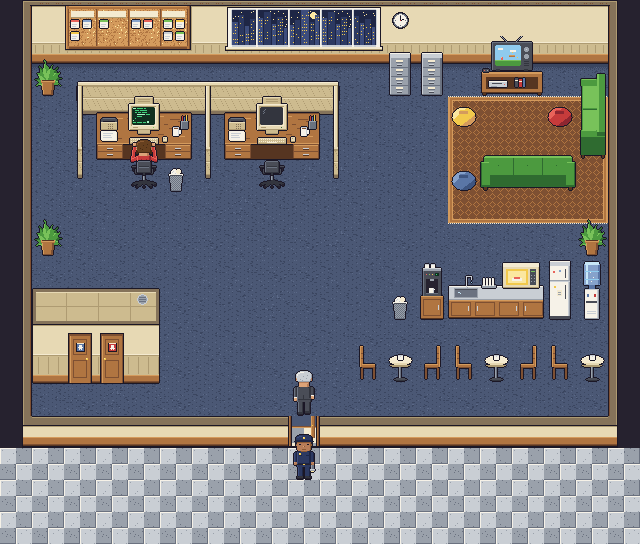
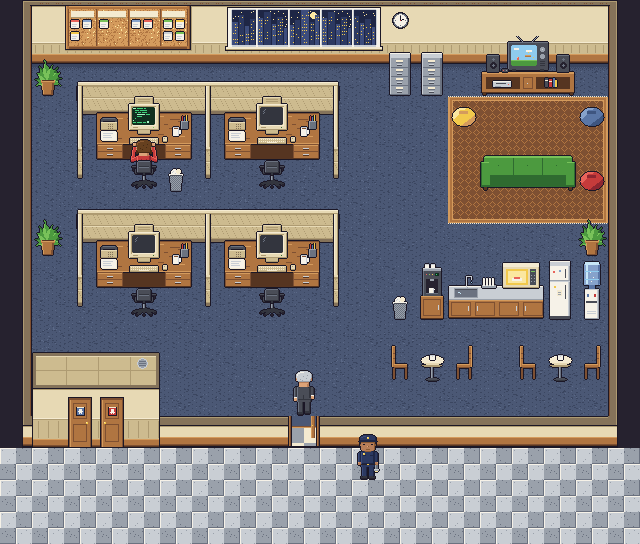
docs: quatro cubículos e o banheiro com as portas no corredor, na planta da arte do escritório
A copa fica com duas mesinhas e quatro cadeiras, alinhadas com a linha da cozinha. A sala de
descompressão perde o sofá de lado e ganha um móvel de três tiles, com a TV centrada no sofá e as
caixas de som. O banheiro cola na parede de baixo, com as portas no corredor: para ir a ele, sai-se
do escritório. O vigia sai da frente da porta. Com o espaço do banheiro, entra a segunda fileira de
cubículos. A planta proposta no pedido segue o ajuste; a bíblia §3 fica com a outra sessão.

Claude-Session: https://claude.ai/code/session_01BURa66aaHAm5tC4w4uDtJx

diff --git a/docs/design/escritorio-arte/escritorio-arte.html b/docs/design/escritorio-arte/escritorio-arte.html
@@ -759,14 +759,20 @@ function sofaLado() {
   return s.contorno();
 }
 
-// ---- o móvel com a TV de tubo e o videogame (64 × 64, pegada 2 × 1): f 0 desligada, 1–2 jogo
+// ---- o móvel com a TV de tubo, o videogame e as caixas de som (96 × 64, pegada 3 × 1)
+// f 0 desligada, 1–2 jogo. A TV fica no meio, centrada no sofá.
 function movelTv(f) {
-  const s = new Spr(64, 64);
-  s.r(2, 40, 60, 21, 'mad').hl(2, 61, 40, 'madCl').hl(2, 61, 41, 'madCl').r(6, 45, 52, 12, 'madMEsc').hl(2, 61, 60, 'madMEsc');
-  s.r(3, 61, 3, 2, 'madMEsc').r(58, 61, 3, 2, 'madMEsc');
+  const s = new Spr(96, 64);
+  s.r(2, 40, 92, 21, 'mad').hl(2, 93, 40, 'madCl').hl(2, 93, 41, 'madCl').hl(2, 93, 60, 'madMEsc');
+  s.r(6, 45, 34, 12, 'madMEsc').r(56, 45, 34, 12, 'madMEsc');                                   // as duas prateleiras
+  s.r(43, 45, 10, 12, 'madEsc').r(44, 46, 8, 10, 'mad').p(47, 51, 'cinzaCl');                    // a portinha do meio
+  s.r(3, 61, 3, 2, 'madMEsc').r(90, 61, 3, 2, 'madMEsc');
   s.contorno();
-  s.cola(item(20, 9, o => { o.r(1, 2, 18, 6, 'cinzaCl').hl(1, 18, 2, 'branco').hl(4, 13, 4, 'grafite').p(16, 5, 'vermCl').hl(3, 8, 7, 'cinza'); }), 8, 47);   // o console
-  s.cola(item(12, 11, o => { o.r(1, 1, 3, 9, 'grafite').r(5, 2, 3, 8, 'verm').r(9, 1, 2, 9, 'azul').hl(1, 3, 3, 'cremeCl').hl(5, 7, 4, 'cremeCl'); }), 34, 45);   // os cartuchos
+  s.cola(item(20, 9, o => { o.r(1, 2, 18, 6, 'cinzaCl').hl(1, 18, 2, 'branco').hl(4, 13, 4, 'grafite').p(16, 5, 'vermCl').hl(3, 8, 7, 'cinza'); }), 12, 47);   // o console
+  s.cola(item(14, 11, o => { o.r(1, 1, 3, 9, 'grafite').r(5, 2, 3, 8, 'verm').r(9, 1, 2, 9, 'azul').r(11, 3, 2, 7, 'amarelo').hl(1, 3, 3, 'cremeCl').hl(5, 7, 4, 'cremeCl'); }), 64, 45);   // os cartuchos
+  for (const x0 of [6, 76]) s.cola(item(14, 19, o => {                                          // as caixas de som
+    o.r(1, 1, 12, 17, 'grafite').hl(1, 12, 1, 'cinzaEsc').disco(7, 11, 3, 'escuro').disco(7, 11, 1, 'cinzaEsc').disco(7, 5, 1, 'cinzaEsc');
+  }), x0, 22);
   s.cola(item(42, 36, o => {
     o.linha(16, 6, 10, 0, 'cinza').linha(24, 6, 30, 0, 'cinza').p(10, 0, 'cinzaCl').p(30, 0, 'cinzaCl');
     o.r(1, 6, 40, 28, 'grafite').hl(1, 40, 6, 'cinzaEsc').vl(1, 6, 33, 'cinzaEsc').r(5, 33, 4, 2, 'grafiteEsc').r(33, 33, 4, 2, 'grafiteEsc');
@@ -783,8 +789,8 @@ function movelTv(f) {
     for (const [x, y] of [[x0, y0], [x0 + w - 1, y0], [x0, y0 + h - 1], [x0 + w - 1, y0 + h - 1]]) o.p(x, y, 'grafite');
     o.disco(35, 13, 2, 'cinza').disco(35, 20, 2, 'cinza').p(35, 13, 'cinzaCl');
     for (const y of [25, 27, 29]) o.hl(33, 37, y, 'grafiteEsc');
-  }), 11, 4);
-  s.cola(item(8, 5, o => o.r(1, 1, 6, 3, 'grafite').p(2, 2, 'vermCl').p(5, 2, 'cinza')), 2, 36);   // o controle
+  }), 27, 4);
+  s.cola(item(8, 5, o => o.r(1, 1, 6, 3, 'grafite').p(2, 2, 'vermCl').p(5, 2, 'cinza')), 21, 36);   // o controle
   return s;
 }
 
@@ -1217,7 +1223,7 @@ const FOLHAS = [
   { nome: 'lixeira', grupo: 'móveis', q: [32, 32], col: 1, lin: 1, pegada: [1, 1], ancora: [16, 32], camada: 'normal', quadros: ['lixeira'], desenha: () => lixeira() },
   { nome: 'banheiro', grupo: 'banheiro e copa', q: [128, 96], col: 3, lin: 1, pegada: [4, 3], ancora: [64, 96], camada: 'normal',
     quadros: ['fechado', 'masculino aberta', 'feminino aberta'], portas: { masculino: [1, 2], feminino: [2, 2] },
-    nota: 'bloco com teto; as portas ficam na face sul, nos tiles 2 e 3 da pegada; quem entra some', desenha: c => banheiro(c) },
+    nota: 'bloco com teto, colado à parede de baixo; as portas dão para o corredor, nos tiles 2 e 3 da pegada; quem entra some', desenha: c => banheiro(c) },
   { nome: 'geladeira', grupo: 'banheiro e copa', q: [32, 64], col: 2, lin: 1, pegada: [1, 1], ancora: [16, 64], camada: 'normal',
     quadros: ['fechada', 'aberta'], desenha: c => geladeira(c) },
   { nome: 'balcao_copa', grupo: 'banheiro e copa', q: [96, 64], col: 2, lin: 1, pegada: [3, 1], ancora: [48, 64], camada: 'normal',
@@ -1233,9 +1239,9 @@ const FOLHAS = [
   { nome: 'sofa_costas', grupo: 'descompressão', q: [96, 64], col: 1, lin: 1, pegada: [3, 1], ancora: [48, 64], camada: 'normal',
     quadros: ['de costas, para a TV'], desenha: () => sofaCostas() },
   { nome: 'sofa_lado', grupo: 'descompressão', q: [32, 96], col: 1, lin: 1, pegada: [1, 2], ancora: [16, 96], camada: 'normal',
-    quadros: ['virado para a esquerda'], desenha: () => sofaLado() },
-  { nome: 'movel_tv', grupo: 'descompressão', q: [64, 64], col: 3, lin: 1, pegada: [2, 1], ancora: [32, 64], camada: 'normal',
-    quadros: ['desligada', 'jogo 1', 'jogo 2'], nota: 'a TV de tubo, o videogame e os cartuchos', desenha: c => movelTv(c) },
+    quadros: ['virado para a esquerda'], nota: 'fora da sala por enquanto', desenha: () => sofaLado() },
+  { nome: 'movel_tv', grupo: 'descompressão', q: [96, 64], col: 3, lin: 1, pegada: [3, 1], ancora: [48, 64], camada: 'normal',
+    quadros: ['desligada', 'jogo 1', 'jogo 2'], nota: 'a TV de tubo no meio, o videogame, os cartuchos e as caixas de som', desenha: c => movelTv(c) },
   { nome: 'puff', grupo: 'descompressão', q: [32, 32], col: 3, lin: 1, pegada: [1, 1], ancora: [16, 32], camada: 'normal',
     quadros: ['amarelo', 'vermelho', 'azul'], desenha: c => puff(c) },
   { nome: 'tapete', grupo: 'descompressão', q: [32, 32], col: 3, lin: 3, pegada: [1, 1], ancora: [16, 32], camada: 'chao',
@@ -1280,15 +1286,20 @@ window.metadados = () => {
 
 // =====================================================================
 // PRÉVIA: a sala montada (20 × 17) com as peças, em passos de 100 ms
-// A planta (15/11, à noite): os cubículos em cima à esquerda, a sala de
-// descompressão em cima à direita, o banheiro embaixo à esquerda e a copa
-// embaixo à direita. Coordenadas em tiles: (coluna, linha).
+// A planta (15/11, à noite, segundo ajuste): quatro cubículos à esquerda, em
+// duas fileiras; a sala de descompressão em cima à direita; a copa embaixo à
+// direita; o banheiro colado à parede de baixo, com as portas no corredor.
+// Coordenadas em tiles: (coluna, linha).
 // =====================================================================
 const SALA = { L: 20, A: 17 };
 const PORTA = [9, 13];
 
-// ---- os dois cubículos: as células de divisória e a máscara de cada uma
-const DIV = new Set(['2,3', '3,3', '4,3', '5,3', '6,3', '7,3', '8,3', '9,3', '10,3', '2,4', '2,5', '6,4', '6,5', '10,4', '10,5']);
+// ---- os quatro cubículos, em duas fileiras: as células de divisória e a máscara de cada uma
+const DIV = new Set();
+for (const l0 of [3, 7]) {
+  for (let c = 2; c <= 10; c++) DIV.add(c + ',' + l0);
+  for (const c of [2, 6, 10]) { DIV.add(c + ',' + (l0 + 1)); DIV.add(c + ',' + (l0 + 2)); }
+}
 const temDiv = (c, l) => DIV.has(c + ',' + l);
 function mascara(c, l) { return (temDiv(c, l - 1) ? 1 : 0) | (temDiv(c + 1, l) ? 2 : 0) | (temDiv(c, l + 1) ? 4 : 0) | (temDiv(c - 1, l) ? 8 : 0); }
 
@@ -1331,7 +1342,7 @@ function fundo(noite) {
 
 // ---- o caminho do gerente: [coluna, linha] ou ['pausa', ticks, direção, onde]
 // entra pela porta, vai ao quadro, passa na máquina de café e volta
-const CAMINHO = [[9, 12], [9, 7], [11, 7], [11, 2], [4, 2], ['pausa', 14, 0, 'quadro'], [11, 2], [11, 7], [11, 10], [13, 10],
+const CAMINHO = [[9, 12], [9, 10], [11, 10], [11, 2], [4, 2], ['pausa', 14, 0, 'quadro'], [11, 2], [11, 10], [13, 10],
   ['pausa', 16, 0, 'cafe'], [9, 10], [9, 12], ['pausa', 14, 2, 'porta']];
 const PASSO = 4;    // px por tick: 8 ticks por tile (andar per_tile)
 function etapasGerente() {
@@ -1373,26 +1384,27 @@ function objetos(t) {
   poe(quadro('lixeira'), 5, 5);
   poe(quadro('mesa_dev', 0), 7, 4, 3);
   poe(quadro('cadeira', 2), 8, 5);
+  poe(quadro('mesa_dev', 0), 3, 8, 3); poe(quadro('cadeira', 2), 4, 9);
+  poe(quadro('mesa_dev', 0), 7, 8, 3); poe(quadro('cadeira', 2), 8, 9);
   poe(quadro('arquivo'), 12, 2); poe(quadro('arquivo'), 13, 2);
   // a sala de descompressão
-  poe(quadro('movel_tv', 1 + Math.floor(t / 4) % 2), 15, 2, 2);
+  poe(quadro('movel_tv', 1 + Math.floor(t / 4) % 2), 15, 2, 3);
   poe(quadro('sofa_costas'), 15, 5, 3);
-  poe(quadro('sofa_lado'), 18, 4);
-  poe(quadro('puff', 0), 14, 3); poe(quadro('puff', 2), 14, 5); poe(quadro('puff', 1), 17, 3);
-  // o banheiro
-  poe(quadro('banheiro', 0), 1, 11, 4);
+  poe(quadro('puff', 0), 14, 3); poe(quadro('puff', 2), 18, 3); poe(quadro('puff', 1), 18, 5);
+  // o banheiro, colado à parede de baixo: as portas dão para o corredor
+  poe(quadro('banheiro', 0), 1, 13, 4);
   // a copa: a linha da cozinha, as mesinhas e as cadeiras
   poe(quadro('lixeira'), 12, 9);
   poe(quadro('maquina_cafe', g.onde === 'cafe' ? 1 : 0), 13, 9);
   poe(quadro('balcao_copa', (t % 60) < 20 ? 1 : 0), 14, 9, 3);
   poe(quadro('geladeira', 0), 17, 9);
   poe(quadro('bebedouro', Math.floor(t / 7) % 2), 18, 9);
-  for (const c of [12, 15, 18]) poe(quadro('mesa_copa'), c, 11);
-  for (const [c, f] of [[11, 0], [13, 1], [14, 0], [16, 1], [17, 0]]) poe(quadro('cadeira_lado', f), c, 11);
+  for (const c of [13, 17]) poe(quadro('mesa_copa'), c, 11);
+  for (const [c, f] of [[12, 0], [14, 1], [16, 0], [18, 1]]) poe(quadro('cadeira_lado', f), c, 11);
   // as plantas
   poe(quadro('planta'), 1, 2); poe(quadro('planta'), 1, 7); poe(quadro('planta'), 18, 7);
   // o vigia na porta, do lado do corredor
-  poe(quadro('vigia', (t % 37) < 2 ? 1 : 0, LIN_ANIM('parado', 2)), PORTA[0], 14);
+  poe(quadro('vigia', (t % 37) < 2 ? 1 : 0, LIN_ANIM('parado', 2)), PORTA[0] + 2, 14);
   // o gerente
   const sg = quadro('gerente', g.f, LIN_ANIM(g.anim, g.dir));
   o.push({ spr: sg, x: g.x + T / 2 - 32, y: g.y + T - 64, base: g.y + T, ordem: 1 });

diff --git a/docs/design/briefing-arte-escritorio.md b/docs/design/briefing-arte-escritorio.md
@@ -107,7 +107,7 @@ Cada peça vai numa folha (spritesheet) separada, sobre fundo transparente.
 
 | Peça | Quadro | Pegada | Quadros |
 |---|---|---|---|
-| o banheiro: um bloco com teto, para não ver dentro, e duas portas na face sul, masculino e feminino, com a plaquinha; quem entra some e volta depois | 128 × 96 | 4 × 3 | 3: fechado, a do masculino aberta, a do feminino aberta |
+| o banheiro: um bloco com teto, para não ver dentro, colado à parede de baixo, com duas portas na face sul, que dão para o corredor (masculino e feminino, com a plaquinha); quem entra some e volta depois | 128 × 96 | 4 × 3 | 3: fechado, a do masculino aberta, a do feminino aberta |
 | a geladeira | 32 × 64 | 1 × 1 | 2: fechada, aberta (com as marmitas) |
 | o balcão da copa, com a pia e o micro-ondas | 96 × 64 | 3 × 1 | 2: micro-ondas desligado e ligado |
 | a máquina de café, sobre um armarinho | 32 × 64 | 1 × 1 | 2: parada, servindo |
@@ -115,8 +115,8 @@ Cada peça vai numa folha (spritesheet) separada, sobre fundo transparente.
 | a mesinha redonda da copa | 32 × 64 | 1 × 1 | 1 |
 | a cadeira da copa, de lado | 32 × 64 | 1 × 1 | 2: virada para a direita e para a esquerda |
 | o sofá de costas, virado para a TV | 96 × 64 | 3 × 1 | 1 |
-| o sofá de lado | 32 × 96 | 1 × 2 | 1 |
-| o móvel com a TV de tubo, o videogame e os cartuchos | 64 × 64 | 2 × 1 | 3: desligada e 2 de jogo |
+| o sofá de lado (fora da sala por enquanto) | 32 × 96 | 1 × 2 | 1 |
+| o móvel com a TV de tubo no meio, o videogame, os cartuchos e as caixas de som | 96 × 64 | 3 × 1 | 3: desligada e 2 de jogo |
 | o puff | 32 × 32 | 1 × 1 | 3 cores |
 | o tapete da descompressão, em 9 peças (cantos, bordas, miolo) | 32 × 32 | 1 × 1 | 9 |
 
@@ -175,7 +175,7 @@ A rotina do dev (ADR-0080) vai pedir animações novas: carregar a marmita andan
 - o vigia andando e parado;
 - a prévia.
 
-**Fase 1, segunda parte (15/11, à noite):** a sala na planta nova, com o banheiro, a copa e a sala de descompressão.
+**Fase 1, segunda parte (15/11, à noite):** a sala na planta nova, com o banheiro, a copa, a sala de descompressão e quatro cubículos.
 
 **Fase 2 (só se a arte nova ganhar):**
 - as animações da rotina: usar, beber, comer sentado, carregar a marmita, jogar videogame e cochilar;
@@ -188,7 +188,18 @@ A rotina do dev (ADR-0080) vai pedir animações novas: carregar a marmita andan
 
 ### A planta proposta (15/11, à noite)
 
-O usuário pediu os cubículos mais para cima e para a esquerda, o quadro dos pedidos à esquerda, o banheiro no canto de baixo à esquerda, a copa no canto de baixo à direita e a sala de descompressão no canto de cima à direita. A prévia segue esta planta. Ela **difere da bíblia §3 e do `map.tmj` de hoje** (ADR-0080, com a copa à direita no meio e a porta do banheiro na parede de baixo): quem cuida do mapa decide e registra. Coordenadas em tiles, (coluna, linha):
+O usuário pediu:
+- quatro cubículos, em duas fileiras, à esquerda;
+- o quadro dos pedidos à esquerda da parede do fundo;
+- a sala de descompressão no canto de cima à direita;
+- a copa no canto de baixo à direita;
+- o banheiro colado à parede de baixo, com as portas no corredor: para ir ao banheiro, o avatar sai do escritório.
+
+A prévia segue esta planta. Ela **difere da bíblia §3 e do `map.tmj` de hoje** (ADR-0080, com a copa à direita no meio e a porta do banheiro na parede de baixo): quem cuida do mapa decide e registra.
+
+A sala continua com 20 × 17 tiles e a parede de baixo na linha 13: coube tudo sem descer a parede.
+
+Coordenadas em tiles, (coluna, linha):
 
 | Coisa | Tiles |
 |---|---|
@@ -196,16 +207,18 @@ O usuário pediu os cubículos mais para cima e para a esquerda, o quadro dos pe
 | Janela | na parede, colunas 7 a 11 |
 | Relógio | na parede, coluna 12 |
 | Arquivos | (12, 2) e (13, 2) |
-| Divisórias | a linha 3, das colunas 2 a 10; e as colunas 2, 6 e 10, nas linhas 4 e 5 |
-| Mesa do Camps | (3 a 5, 4); a cadeira em (4, 5); a lixeira em (5, 5) |
-| Mesa vaga | (7 a 9, 4); a cadeira em (8, 5) |
-| Sala de descompressão | o tapete de (14, 3) a (18, 6); o móvel da TV em (15 e 16, 2); o sofá de costas em (15 a 17, 5); o sofá de lado em (18, 3 e 4); os puffs em (14, 3), (17, 3) e (14, 5) |
-| Banheiro | o bloco de (1, 9) a (4, 11); as portas em (2, 11), masculino, e (3, 11), feminino, usadas de (2, 12) e (3, 12) |
+| Divisórias, fileira de cima | a linha 3, das colunas 2 a 10; e as colunas 2, 6 e 10, nas linhas 4 e 5 |
+| Divisórias, fileira de baixo | a linha 7, das colunas 2 a 10; e as colunas 2, 6 e 10, nas linhas 8 e 9 |
+| Mesas, fileira de cima | (3 a 5, 4), a do Camps, com a cadeira em (4, 5) e a lixeira em (5, 5); (7 a 9, 4), com a cadeira em (8, 5) |
+| Mesas, fileira de baixo | (3 a 5, 8), com a cadeira em (4, 9); (7 a 9, 8), com a cadeira em (8, 9) |
+| Corredores entre as mesas | a linha 6 (entre as fileiras), a linha 10 (abaixo delas) e a coluna 11 (do lado) |
+| Sala de descompressão | o tapete de (14, 3) a (18, 6); o móvel da TV em (15 a 17, 2), centrado no sofá; o sofá de costas em (15 a 17, 5); os puffs em (14, 3), (18, 3) e (18, 5) |
 | Copa, a linha da cozinha | a lixeira em (12, 9), a máquina de café em (13, 9), o balcão com a pia e o micro-ondas em (14 a 16, 9), a geladeira em (17, 9), o bebedouro em (18, 9); tudo usado da linha 10, de frente para cima |
-| Copa, as mesinhas | (12, 11), (15, 11) e (18, 11); as cadeiras de lado em (11, 11), (13, 11), (14, 11), (16, 11) e (17, 11) |
+| Copa, as mesinhas | (13, 11) e (17, 11); as cadeiras de lado em (12, 11) e (16, 11), viradas para a direita, e em (14, 11) e (18, 11), viradas para a esquerda |
+| Banheiro | o bloco de (1, 11) a (4, 13), no lugar da parede de baixo nessas colunas; as portas em (2, 13), masculino, e (3, 13), feminino, usadas do corredor, em (2, 14) e (3, 14) |
 | Plantas | (1, 2), (1, 7) e (18, 7) |
-| Porta | (9, 13); o vigia em (9, 14), no corredor |
-| Rack do servidor | fora, para o futuro |
+| Porta | (9, 13); o vigia em (11, 14), no corredor, ao lado da porta |
+| Fora da sala por enquanto | o rack do servidor e o sofá de lado |
 
 ### Os passos
 

diff --git a/docs/design/README.md b/docs/design/README.md
@@ -95,7 +95,7 @@ O M23 entregou o escritório em arte LPC. Na partida dele, o usuário achou que 
 Em [escritorio-arte/](escritorio-arte/): a fatia que basta para decidir entre a arte nova e a LPC, desenhada em código na vista de cima em 3/4, com uma paleta de 45 cores.
 
 - **O que tem:** o chão, as paredes e a porta; a janela de dia e de noite; o relógio; o quadro dos pedidos em módulos e as fichas soltas; o cubículo (a mesa com a tela animada, a cadeira em duas camadas, a divisória em 16 peças, o rack com o botão de publicar); o arquivo, a planta e a lixeira; o Camps, o gerente e o vigia andando e parados, e o Camps sentado e digitando.
-- **A planta nova (15/11, à noite):** os cubículos em cima à esquerda, o quadro dos pedidos à esquerda na parede, a sala de descompressão em cima à direita (sofás, a TV com o videogame, puffs e tapete), o banheiro com teto e duas portas embaixo à esquerda e a copa embaixo à direita (máquina de café, balcão com pia e micro-ondas, geladeira, bebedouro e três mesinhas). O rack do servidor ficou para o futuro. As coordenadas estão no pedido, em "A planta proposta"; elas diferem da bíblia §3 e do `map.tmj` de hoje (ADR-0080), e quem cuida do mapa decide.
+- **A planta nova (15/11, à noite):** quatro cubículos em duas fileiras, à esquerda; o quadro dos pedidos à esquerda na parede; a sala de descompressão em cima à direita (o sofá virado para a TV com o videogame, puffs e tapete); a copa embaixo à direita (máquina de café, balcão com pia e micro-ondas, geladeira, bebedouro e duas mesinhas); e o banheiro com teto colado à parede de baixo, com as duas portas no corredor, fora da sala. O rack do servidor e o sofá de lado ficaram para depois. As coordenadas estão no pedido, em "A planta proposta"; elas diferem da bíblia §3 e do `map.tmj` de hoje (ADR-0080), e quem cuida do mapa decide.
 - **Como abrir:** [escritorio-arte.html](escritorio-arte/escritorio-arte.html), no navegador, mostra a sala animada, a paleta e a prancha, com um "baixar PNG" por folha. As folhas já exportadas estão em [folhas/](escritorio-arte/folhas/), com o [metadados.json](escritorio-arte/folhas/metadados.json) para o manifesto, e a prévia em [previa/](escritorio-arte/previa/).
 - **Exportar de novo:** da raiz, `NODE_PATH=apps/ui/node_modules node docs/design/escritorio-arte/ferramentas/exportar-folhas.js docs/design/escritorio-arte/escritorio-arte.html <pasta>`, com o Playwright do `apps/ui`.
 - **Origem:** o Claude desenhou numa sessão do Cowork, em 15/11/2026, e não no Claude Design; o pedido serviu igual. O desenho é original: nada vem da LPC nem de outros pacotes.
